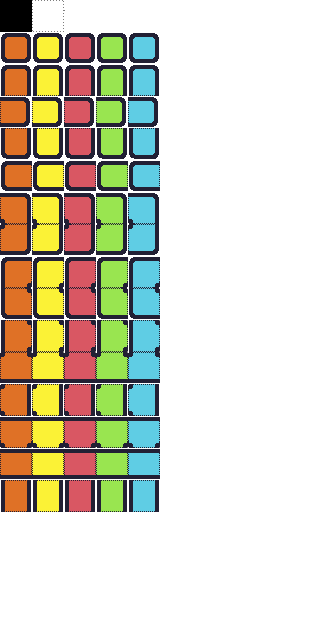
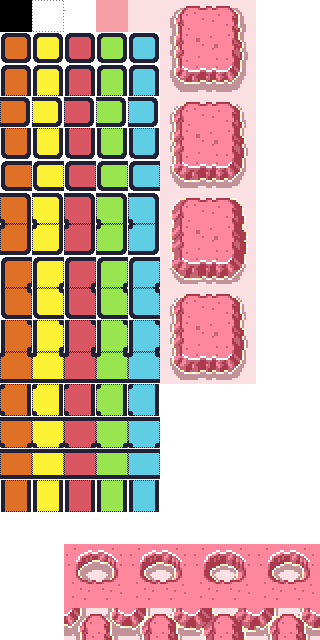
Added basic start screen and game screen art

diff --git a/assets/tiles.tsx b/assets/tiles.tsx
@@ -1,4 +1,100 @@
 <?xml version="1.0" encoding="UTF-8"?>
 <tileset version="1.5" tiledversion="1.7.2" name="tiles" tilewidth="32" tileheight="32" tilecount="200" columns="10">
  <image source="tiles.png" width="320" height="640"/>
+ <tile id="5">
+  <animation>
+   <frame tileid="5" duration="250"/>
+   <frame tileid="35" duration="250"/>
+   <frame tileid="65" duration="250"/>
+   <frame tileid="95" duration="250"/>
+  </animation>
+ </tile>
+ <tile id="6">
+  <animation>
+   <frame tileid="6" duration="250"/>
+   <frame tileid="36" duration="250"/>
+   <frame tileid="66" duration="250"/>
+   <frame tileid="96" duration="250"/>
+  </animation>
+ </tile>
+ <tile id="7">
+  <animation>
+   <frame tileid="7" duration="250"/>
+   <frame tileid="37" duration="250"/>
+   <frame tileid="67" duration="250"/>
+   <frame tileid="97" duration="250"/>
+  </animation>
+ </tile>
+ <tile id="15">
+  <animation>
+   <frame tileid="15" duration="250"/>
+   <frame tileid="45" duration="250"/>
+   <frame tileid="75" duration="250"/>
+   <frame tileid="105" duration="250"/>
+  </animation>
+ </tile>
+ <tile id="17">
+  <animation>
+   <frame tileid="17" duration="250"/>
+   <frame tileid="47" duration="250"/>
+   <frame tileid="77" duration="250"/>
+   <frame tileid="107" duration="250"/>
+  </animation>
+ </tile>
+ <tile id="25">
+  <animation>
+   <frame tileid="25" duration="250"/>
+   <frame tileid="55" duration="250"/>
+   <frame tileid="85" duration="250"/>
+   <frame tileid="115" duration="250"/>
+  </animation>
+ </tile>
+ <tile id="26">
+  <animation>
+   <frame tileid="26" duration="250"/>
+   <frame tileid="56" duration="250"/>
+   <frame tileid="86" duration="250"/>
+   <frame tileid="116" duration="250"/>
+  </animation>
+ </tile>
+ <tile id="27">
+  <animation>
+   <frame tileid="27" duration="250"/>
+   <frame tileid="57" duration="250"/>
+   <frame tileid="87" duration="250"/>
+   <frame tileid="117" duration="250"/>
+  </animation>
+ </tile>
+ <tile id="172">
+  <animation>
+   <frame tileid="172" duration="250"/>
+   <frame tileid="174" duration="250"/>
+   <frame tileid="176" duration="250"/>
+   <frame tileid="178" duration="250"/>
+  </animation>
+ </tile>
+ <tile id="173">
+  <animation>
+   <frame tileid="173" duration="250"/>
+   <frame tileid="175" duration="250"/>
+   <frame tileid="177" duration="250"/>
+   <frame tileid="179" duration="250"/>
+  </animation>
+ </tile>
+ <tile id="182">
+  <animation>
+   <frame tileid="182" duration="250"/>
+   <frame tileid="184" duration="250"/>
+   <frame tileid="186" duration="250"/>
+   <frame tileid="188" duration="250"/>
+  </animation>
+ </tile>
+ <tile id="183">
+  <animation>
+   <frame tileid="183" duration="250"/>
+   <frame tileid="185" duration="250"/>
+   <frame tileid="187" duration="250"/>
+   <frame tileid="189" duration="250"/>
+  </animation>
+ </tile>
 </tileset>

diff --git a/core/src/main/java/com/ainpuw/tethyszero/StartScreen.java b/core/src/main/java/com/ainpuw/tethyszero/StartScreen.java
@@ -3,36 +3,99 @@ package com.ainpuw.tethyszero;
 import com.badlogic.gdx.Gdx;
 import com.badlogic.gdx.Screen;
 import com.badlogic.gdx.graphics.OrthographicCamera;
-import com.badlogic.gdx.graphics.g2d.BitmapFont;
+import com.badlogic.gdx.graphics.Texture;
+import com.badlogic.gdx.graphics.g2d.Animation;
+import com.badlogic.gdx.graphics.g2d.Batch;
+import com.badlogic.gdx.graphics.g2d.TextureRegion;
+import com.badlogic.gdx.maps.tiled.TiledMap;
+import com.badlogic.gdx.maps.tiled.TmxMapLoader;
+import com.badlogic.gdx.maps.tiled.renderers.OrthogonalTiledMapRenderer;
+import com.badlogic.gdx.utils.Array;
 import com.badlogic.gdx.utils.ScreenUtils;
 
 public class StartScreen implements Screen {
+    Main game;
+    GameConfig config;
 
-    final Main game;
-    public BitmapFont font;
+    private OrthographicCamera camera = new OrthographicCamera();
+    private TiledMap map = new TmxMapLoader().load("startscreen.tmx");;
+    private OrthogonalTiledMapRenderer renderer;
 
-    OrthographicCamera camera;
+    Texture terazeroTexture;
+    private Array<Animation<TextureRegion>> tetrazeroAnimations = new Array<>();
+    float [] tetrazeroStateTime;
+    float [] tetrazeroX;
+    float [] tetrazeroY;
+
+    Texture startTexture;
+    private Animation<TextureRegion> clicktostartAnimation;
 
     public StartScreen(final Main game) {
         this.game = game;
+        config = this.game.config;
 
-        font = new BitmapFont(); // use libGDX's default Arial font
+        camera.setToOrtho(config.ydown, config.w, config.h);
+        camera.position.x = config.camStartPosX;
+        camera.position.y = config.camStartPosY;
+        renderer = new OrthogonalTiledMapRenderer(map, 1 / (float) config.tileLen);
 
-        camera = new OrthographicCamera();
-        // TODO: Set to full screen. Or let people choose full screen option at menu screen.
-        camera.setToOrtho(false, 800, 480);
+        terazeroTexture = new Texture("tetrazero.png");
+        TextureRegion[][] allTetrazeroSprites = TextureRegion.split(terazeroTexture, 32, 64);
+        TextureRegion[] tetraRegions = allTetrazeroSprites[0];
+        TextureRegion[] zRegions = allTetrazeroSprites[1];
+        TextureRegion[] eRegions = allTetrazeroSprites[2];
+        TextureRegion[] rRegions = allTetrazeroSprites[3];
+        TextureRegion[] oRegions = allTetrazeroSprites[4];
+        tetrazeroAnimations.add(new Animation(config.tetrazeroAnimationSpeed, tetraRegions[0], tetraRegions[1]));
+        tetrazeroAnimations.add(new Animation(config.tetrazeroAnimationSpeed, zRegions[0], zRegions[1]));
+        tetrazeroAnimations.add(new Animation(config.tetrazeroAnimationSpeed, eRegions[0], eRegions[1]));
+        tetrazeroAnimations.add(new Animation(config.tetrazeroAnimationSpeed, rRegions[0], rRegions[1]));
+        tetrazeroAnimations.add(new Animation(config.tetrazeroAnimationSpeed, oRegions[0], oRegions[1]));
+        for (Animation a : tetrazeroAnimations)
+            a.setPlayMode(Animation.PlayMode.LOOP);
+
+        tetrazeroStateTime = new float[]{
+                config.tetrazeroAnimationSpeed * 1.0f,
+                config.tetrazeroAnimationSpeed * 1.6f,
+                config.tetrazeroAnimationSpeed * 1.4f,
+                config.tetrazeroAnimationSpeed * 1.8f,
+                config.tetrazeroAnimationSpeed * 1.2f};
+        // tetrazeroX = new float[]{7.5f, 11f, 14.5f, 18f, 21.5f};
+        tetrazeroX = new float[]{7.5f, 11f, 14.5f, 18f, 21.5f};
+
+        tetrazeroY = new float[]{14, 14, 14, 14, 14};
+
+        startTexture = new Texture("clicktostart.png");
+        TextureRegion[][] allStartSprites = TextureRegion.split(startTexture, 256, 32);
+        clicktostartAnimation = new Animation(config.clicktostartAnimationSpeed, allStartSprites[0][0], allStartSprites[1][0]);
+        clicktostartAnimation.setPlayMode(Animation.PlayMode.LOOP);
+
     }
 
     @Override
     public void render(float delta) {
-        ScreenUtils.clear(0, 0, 0.2f, 1);
+        float deltaTime = Gdx.graphics.getDeltaTime();
 
+        ScreenUtils.clear(config.screenBgR, config.screenBgG, config.screenBgB, config.screenBgA);
         camera.update();
-        game.batch.setProjectionMatrix(camera.combined);
 
-        game.batch.begin();
-        font.draw(game.batch, "Tethys Z.E.R.O.", 100, 150);
-        game.batch.end();
+        renderer.setView(camera);
+        renderer.render();
+
+        Batch batch = renderer.getBatch();
+        batch.begin();
+        for (int i = 0; i < 5; i++) {
+            tetrazeroStateTime[i] = Math.min(tetrazeroStateTime[i] + deltaTime, 1000000);
+
+            TextureRegion frame = tetrazeroAnimations.get(i).getKeyFrame(tetrazeroStateTime[i]);
+            batch.draw(frame, tetrazeroX[i], tetrazeroY[i], 3, 6);
+        }
+
+        // Use Tetra's time.
+        TextureRegion frame = clicktostartAnimation.getKeyFrame(tetrazeroStateTime[0]);
+        batch.draw(frame, 8, 11, 16, 2);
+
+        batch.end();
 
         if (Gdx.input.isTouched()) {
             game.setScreen(new GameScreen(game));
@@ -62,7 +125,8 @@ public class StartScreen implements Screen {
 
     @Override
     public void dispose() {
-        font.dispose();
+        terazeroTexture.dispose();
+        startTexture.dispose();
     }
 
 }

diff --git a/core/src/main/java/com/ainpuw/tethyszero/GameConfig.java b/core/src/main/java/com/ainpuw/tethyszero/GameConfig.java
@@ -13,16 +13,16 @@ public class GameConfig {
     public final int wallMinY = 2;
     public final int wallMaxY = 29;
 
-    public final float screenBgR = 128f;
-    public final float screenBgG = 128f;
-    public final float screenBgB = 128f;
+    public final float screenBgR = 255f / 255f;
+    public final float screenBgG = 135f / 255f;
+    public final float screenBgB = 157f / 255f;
     public final float screenBgA = 1f;
 
     public final float camStartPosX = 16f;
     public final float camStartPosY = 16f;
 
     public final int tileLen = 32;
-    public final int clearTileId = 5;
+    public final int clearTileId = 3;
     public final int opaqueTileId = 1;
 
     // The time interval to make one step in the game.
@@ -33,7 +33,10 @@ public class GameConfig {
     public final int nSpawns;
 
     // Need this number of units in a connected rectangular region to cancel.
-    public int cancelThreshold = 6;
+    public final int cancelThreshold = 6;
+
+    public final float tetrazeroAnimationSpeed = 0.4f;
+    public final float clicktostartAnimationSpeed = 0.4f;
 
     public GameConfig() {
         // 28 spawning blocks in total.

diff --git a/core/src/main/java/com/ainpuw/tethyszero/GameScreen.java b/core/src/main/java/com/ainpuw/tethyszero/GameScreen.java
@@ -9,7 +9,6 @@ import com.badlogic.gdx.maps.tiled.TiledMap;
 import com.badlogic.gdx.maps.tiled.TiledMapTileLayer;
 import com.badlogic.gdx.maps.tiled.TmxMapLoader;
 import com.badlogic.gdx.maps.tiled.renderers.OrthogonalTiledMapRenderer;
-import com.badlogic.gdx.math.Vector2;
 import com.badlogic.gdx.utils.Array;
 import com.badlogic.gdx.utils.ScreenUtils;
 
@@ -87,7 +86,6 @@ public class GameScreen implements Screen {
         renderer.render();
 
         Batch batch = renderer.getBatch();
-
         batch.begin();
         batch.end();
 
@@ -358,8 +356,9 @@ public class GameScreen implements Screen {
                 survivingN++;
             }
             else
+                ;
                 // TODO: NEED TO DELETE THIS.
-                playground.getCell(x, y).setTile(map.getTileSets().getTile(config.opaqueTileId));
+                // playground.getCell(x, y).setTile(map.getTileSets().getTile(config.opaqueTileId));
         }
         if (survivingN == b.n) {
             smallBlocks.add(b);

diff --git a/lwjgl3/src/main/java/com/ainpuw/tethyszero/lwjgl3/Lwjgl3Launcher.java b/lwjgl3/src/main/java/com/ainpuw/tethyszero/lwjgl3/Lwjgl3Launcher.java
@@ -17,7 +17,7 @@ public class Lwjgl3Launcher {
 	private static Lwjgl3ApplicationConfiguration getDefaultConfiguration() {
 		Lwjgl3ApplicationConfiguration configuration = new Lwjgl3ApplicationConfiguration();
 		configuration.setTitle("Tetra Z.E.R.O.");
-		configuration.setWindowedMode(800, 800);
+		configuration.setWindowedMode(1024, 1024);
 		configuration.setWindowIcon("logo128.png", "logo64.png", "logo32.png", "logo16.png");
 		return configuration;
 	}
